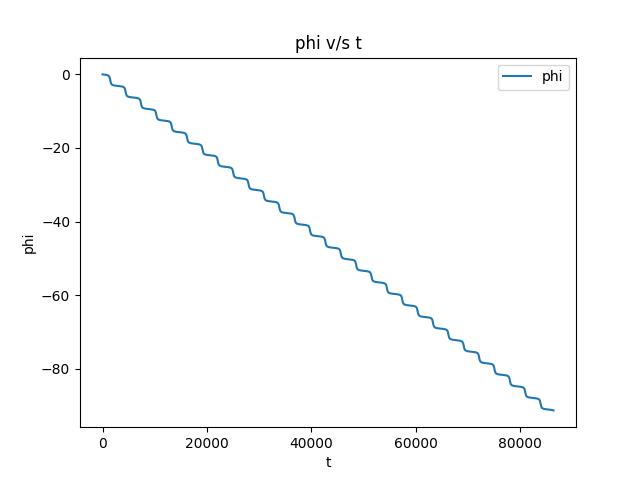
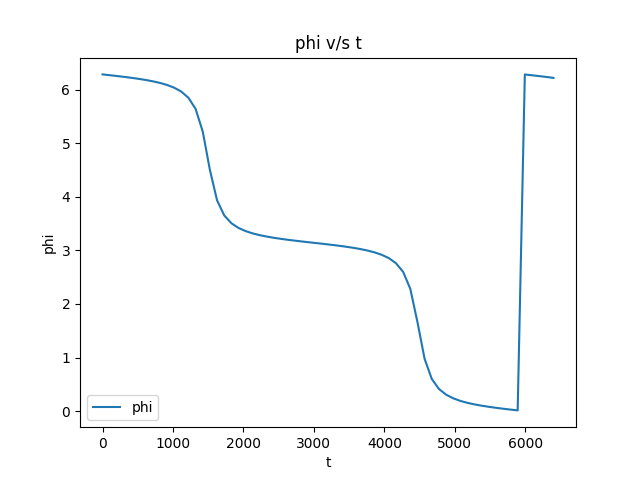
Arg_perigee giving problem

diff --git a/python_codes/deorb_satellite.py b/python_codes/deorb_satellite.py
@@ -1,0 +1,71 @@
+"""Program to deorbit the satellite."""
+
+import numpy as np
+import sat_orbit as sat
+import tether
+
+
+def deorbit(pos0, v_r0, v_tan0, inc, tether_param, tfinal, tstep):
+    """Return the state and the orbital parameters during deorbiting."""
+    v_t0 = -1*v_tan0*np.sin(inc)
+    v_p0 = v_tan0*np.cos(inc)
+    state = np.array([pos0[0], v_r0, pos0[1], v_t0, pos0[2], v_p0])
+    satellite = sat.Satellite(10.0, state)
+    sat_tether = tether.Tether(tether_param[0], tether_param[1],
+                               tether_param[2])
+    sat_tether.setlamda_a(satellite)
+    sat_tether.set_iv(satellite)
+    satellite.set_tether(sat_tether)
+    state_arr, orbelem_arr, a_array = sat.getorbit(satellite, tfinal, tstep,
+                                                   100)
+    return state_arr, orbelem_arr, a_array
+
+
+def plotparam(n_prefix, n_suffix, tfinal, states, orb_elems, a_arr):
+    """Plot the orbital state vectors and elements."""
+    time_arr = np.linspace(0, tfinal, len(states[0, :]))
+    sat.plotfig(n_prefix + '_r_' + n_suffix, "Plot of r with time", 't', 'r',
+                [time_arr], [states[0, :]], ['r'])
+    sat.plotfig(n_prefix + '_th_' + n_suffix, "Plot of theta with time", 't',
+                'theta', [time_arr], [states[2, :]], ['theta'])
+    sat.plotfig(n_prefix + '_p_' + n_suffix, "Plot of phi with time", 't',
+                'phi', [time_arr], [states[4, :]], ['phi'])
+    sat.plotfig(n_prefix + '_vr_' + n_suffix, "Plot of vr with time", 't',
+                'vr', [time_arr], [states[1, :]], ['vr'])
+    sat.plotfig(n_prefix + '_vt_' + n_suffix, "Plot of vt with time", 't',
+                'vt', [time_arr], [states[3, :]], ['vt'])
+    sat.plotfig(n_prefix + '_vp_' + n_suffix, "Plot of vp with time", 't',
+                'vp', [time_arr], [states[5, :]], ['vp'])
+    sat.plotfig(n_prefix + '_h_' + n_suffix, "Plot of h with time", 't',
+                'h', [time_arr], [orb_elems[0, :]], ['h'])
+    sat.plotfig(n_prefix + '_i_' + n_suffix, "Plot of inc with time", 't',
+                'i', [time_arr], [orb_elems[1, :]], ['i'])
+    cap_omega = orb_elems[2, :]
+    for i, elem in enumerate(cap_omega):
+        if elem > np.pi:
+            cap_omega[i] = elem - 2*np.pi
+    sat.plotfig(n_prefix + '_O_' + n_suffix, "Plot of lon_node with time", 't',
+                'lon_node', [time_arr], [cap_omega*180/np.pi], ['node'])
+    sat.plotfig(n_prefix + '_e_' + n_suffix, "Plot of ecc with time", 't',
+                'e', [time_arr], [orb_elems[3, :]], ['e'])
+    sat.plotfig(n_prefix + '_ap_' + n_suffix, "Plot of arg_per with time", 't',
+                'ap', [time_arr], [orb_elems[4, :]], ['arg of perigee'])
+    sat.plotfig(n_prefix + '_an_' + n_suffix, "Plot of anomaly with time", 't',
+                'anomaly', [time_arr], [orb_elems[5, :]], ['true anomaly'])
+    sat.plotfig(n_prefix + '_a_' + n_suffix,
+                "Plot of semimajor axis with time",
+                't', 'a', [time_arr], [a_arr], ['energy'])
+
+
+def main():
+    """Deorbit satellite."""
+    state_arr, orb_arr, a_arr = deorbit([7.048e6, np.pi/2.0, 0.0], 0.0,
+                                        7520.083379159564, 98.0*np.pi/180.0,
+                                        [500.0, 3.4014e+7, [0.001]], 518400.0,
+                                        0.1)
+    plotparam('98_wgs84', '6days', 518400.0, state_arr, orb_arr, a_arr)
+    return state_arr, orb_arr, a_arr
+
+
+if __name__ == '__main__':
+    main()

diff --git a/python_codes/sat_orbit.py b/python_codes/sat_orbit.py
@@ -70,10 +70,11 @@ class Satellite(orb.OrbParam3D):
         lat = self.getlatlon()[0]
         return (0.5*self._sm*(self._vr**2 + self._vt**2 + self._vp**2) +
                 forces.wgs84_pot(self._r, lat)*self._sm)
+        # G*self._mm*self._sm/self._r)
 
     def get_a(self):
         """Return the semi major axis of the satellite."""
-        return -G*self._mm*self._sm/self.geten()
+        return 0.5*-G*self._mm*self._sm/self.geten()
 
     def get_ecc(self):
         """Return eccentricity of orbit."""
@@ -155,6 +156,9 @@ def inc_state_sat(sat, dstate):
     state_new = state.copy()
     for i, elem in enumerate(state):
         state_new[i] = elem + dstate[i]
+    if state_new[-2] >= 2*np.pi or state_new[-2] < 0:
+        state_new[-2] = (state_new[-2] -
+                         np.floor((state_new[-2]/2*np.pi))*2*np.pi)
     sat_temp.setstates(state_new)
     sat_temp.settime(time + dstate[-1])
     return sat_temp
@@ -171,6 +175,7 @@ def tot_acc(sat):
     """Get the total acceleration on the satellite."""
     pos = sat.getpos_sph()
     lat = sat.getlatlon()[0]
+    # g_acc = np.array([-G*M_EARTH/pos[0]**2, 0, 0])
     g_acc = forces.gravity_wgs84(pos[0], lat)
     tether = sat.get_tether()
     t_acc = tether.accln(sat)
@@ -197,9 +202,9 @@ def getorbit(sat, tfinal, tstep, trec):
             state_arr[:, count] = sat.getstate()
             orbelem_arr[:, count] = sat.orb_elem()
             s_major_arr[count] = sat.get_a()
-            # tether = sat.get_tether()
-            # tether.setlamda_a(sat)
-            # tether.set_iv(sat)
+            tether = sat.get_tether()
+            tether.setlamda_a(sat)
+            tether.set_iv(sat)
             print state_arr[0, count]
             print count
             count += 1
@@ -228,8 +233,8 @@ def test_circular():
     p_tether.setlamda_a(pratham)
     p_tether.set_iv(pratham)
     pratham.set_tether(p_tether)
-    state_arr, orbelem_arr, a_arr = getorbit(pratham, 86400, 0.1, 100)
-    time_array = np.linspace(0, 86400, len(state_arr[0, :]))
+    state_arr, orbelem_arr, a_arr = getorbit(pratham, 6400, 0.1, 100)
+    time_array = np.linspace(0, 6400, len(state_arr[0, :]))
     plotfig("test_r.png", "r v/s t", "t", "r", [time_array], [state_arr[0, :]],
             ["r"])
     plotfig("test_th.png", "theta v/s t", "t", "theta", [time_array],

diff --git a/python_codes/tether.py b/python_codes/tether.py
@@ -144,6 +144,9 @@ class Tether(object):
         mass = sat.get_satmass()
         mag_vec = getmag(sat)
         lcap_ecef = self.getlcap_ecef(sat)
+        # field_ind = self.getind_e(sat)
+        # curr = self._sigma*field_ind*np.pi*self._dim[0]**2/4.0
+        # force = np.cross(lcap_ecef, mag_vec)*curr*self._len
         force = np.cross(lcap_ecef, mag_vec)*np.sum(self._i_arr)*self._dlen
         acc = force/mass
         return acc
